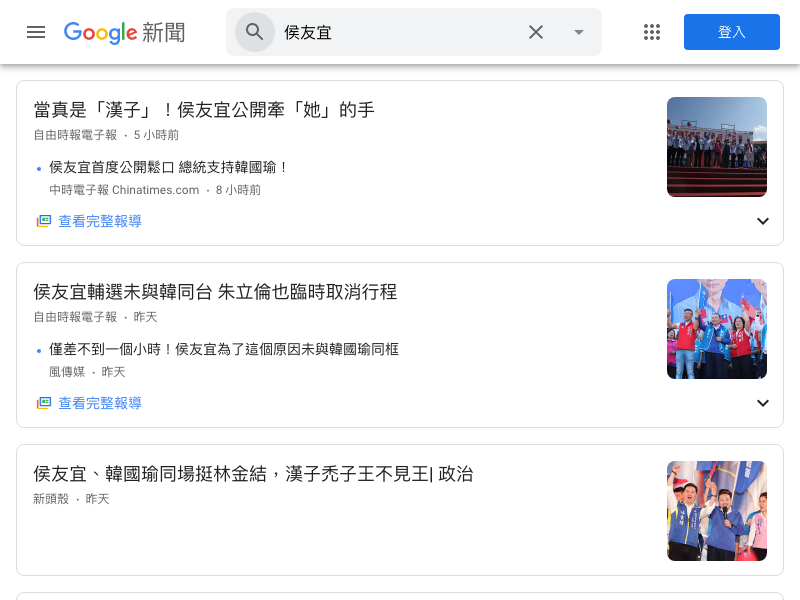
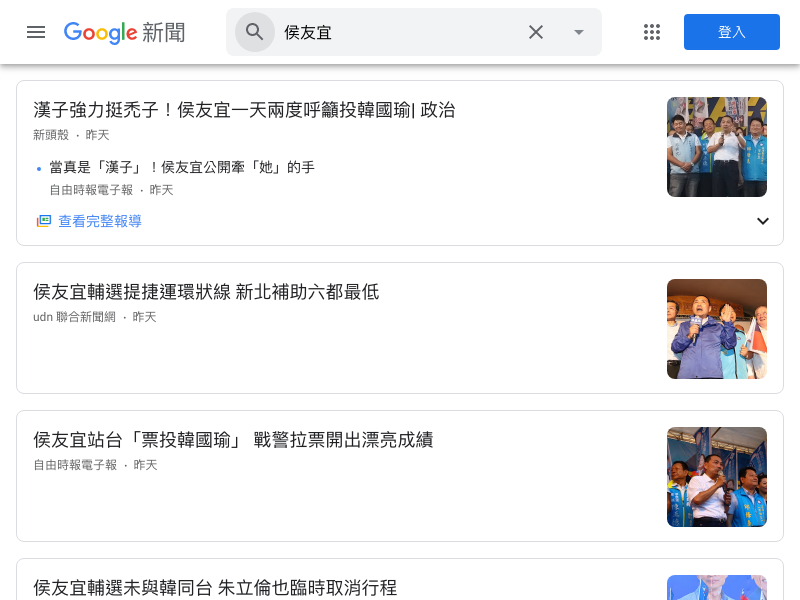
Add pic of Feature:Search to readme

diff --git a/README.md b/README.md
@@ -32,6 +32,8 @@ and posts from the forum about your interested politicians.
 5. `node app.js` on <http://localhost:5000>
 ## Features:
 * Search politicians you're interested in.
+<img src='./readme-src/PIT_Search.gif'>
+
 * Provide you the profile and the **links** of video clips, news and posts from forum(PTT) about your interested politicain.
 * Log In/Sign Up for keeping your favorite articles, video clips and posts
 ## Note:
